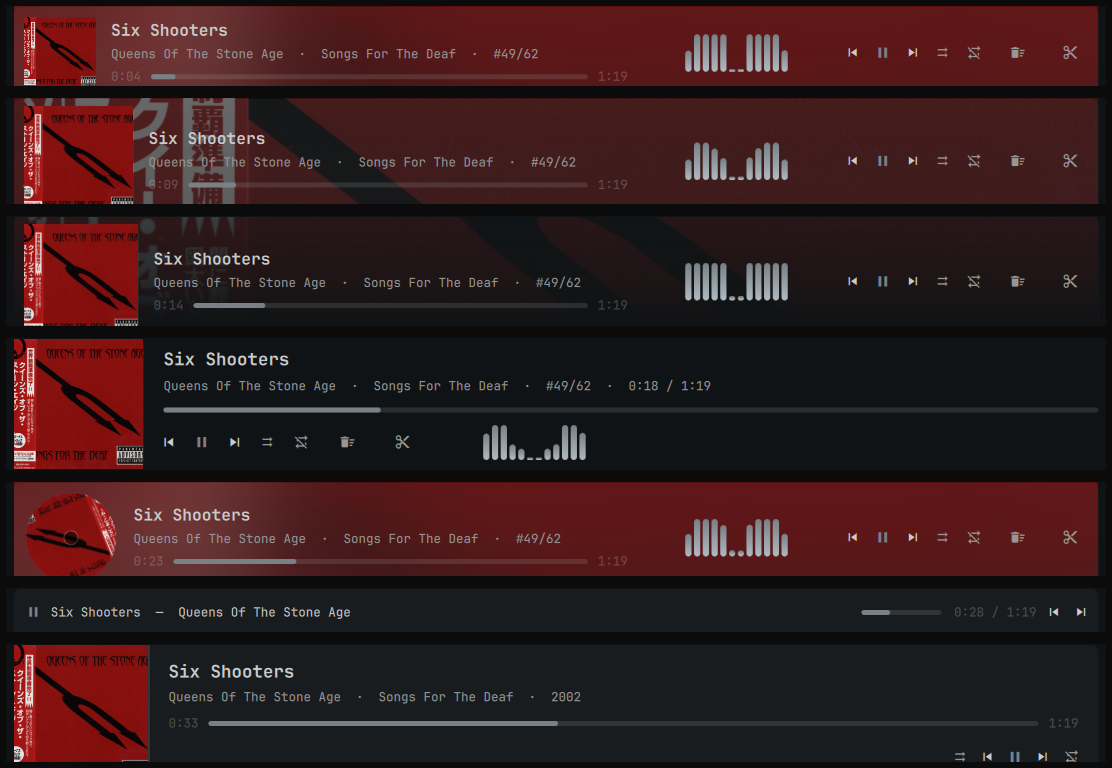
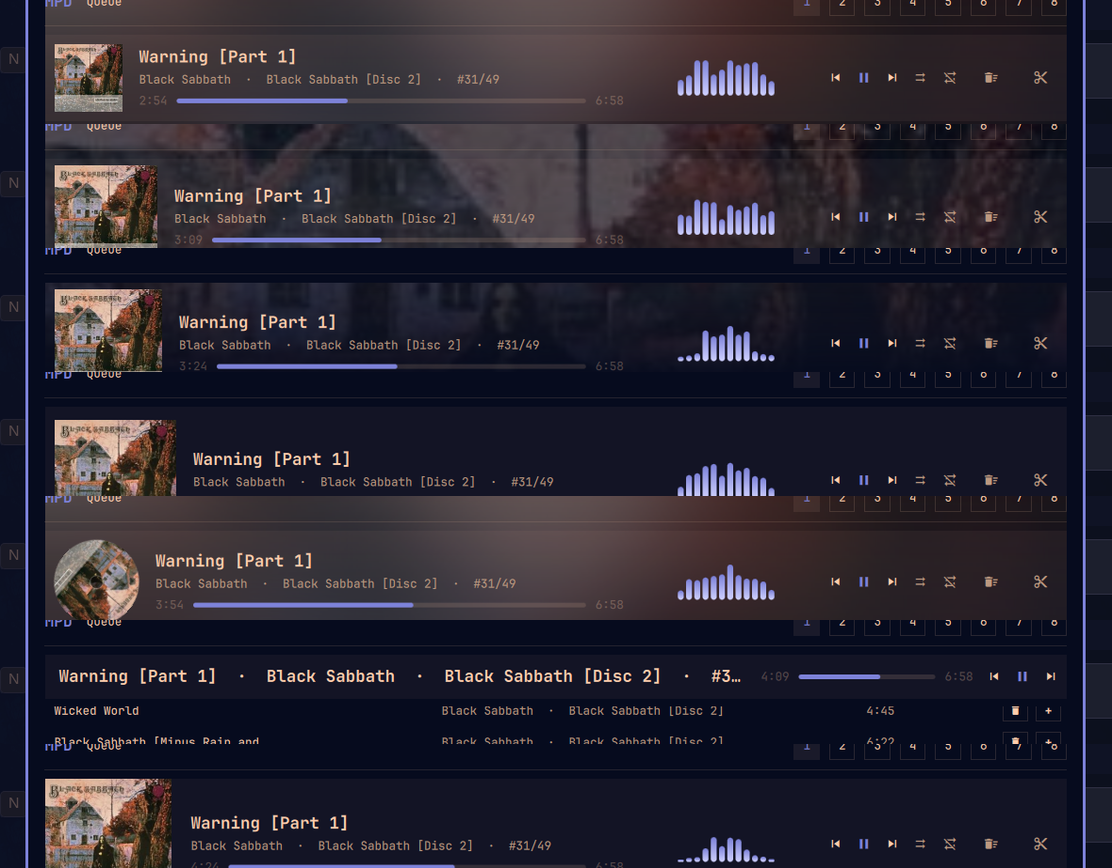
Minimal shows artist and queue badge, and the look overview is regenerated
The one-line look was the only one whose meta line got elided mid-badge (#3...) because
it carries the title, artist, album and the badge in a single line. It now leaves the album
out: in a look that exists to be thin, the artist and the queue position are the two things
worth the space. Everything else in the chrome stays as it is.

docs/cover-looks.png is regenerated from the seven looks on the new chrome.

diff --git a/BandChrome.qml b/BandChrome.qml
@@ -83,7 +83,7 @@ Item {
     var artist = String(band.host.song.artist || "")
     var album = String(band.host.song.album || "")
     if (artist !== "" && artist.toLowerCase() !== band.title.toLowerCase()) bits.push(artist)
-    if (album !== "" && album.toLowerCase() !== band.title.toLowerCase()) bits.push(album)
+    if (album && !band.oneLine !== "" && album.toLowerCase() !== band.title.toLowerCase()) bits.push(album)
     if (band.host.queueLength > 0)
       bits.push("#" + (band.host.queuePosition + 1) + "/" + band.host.queueLength)
     return bits.join("  ·  ")
